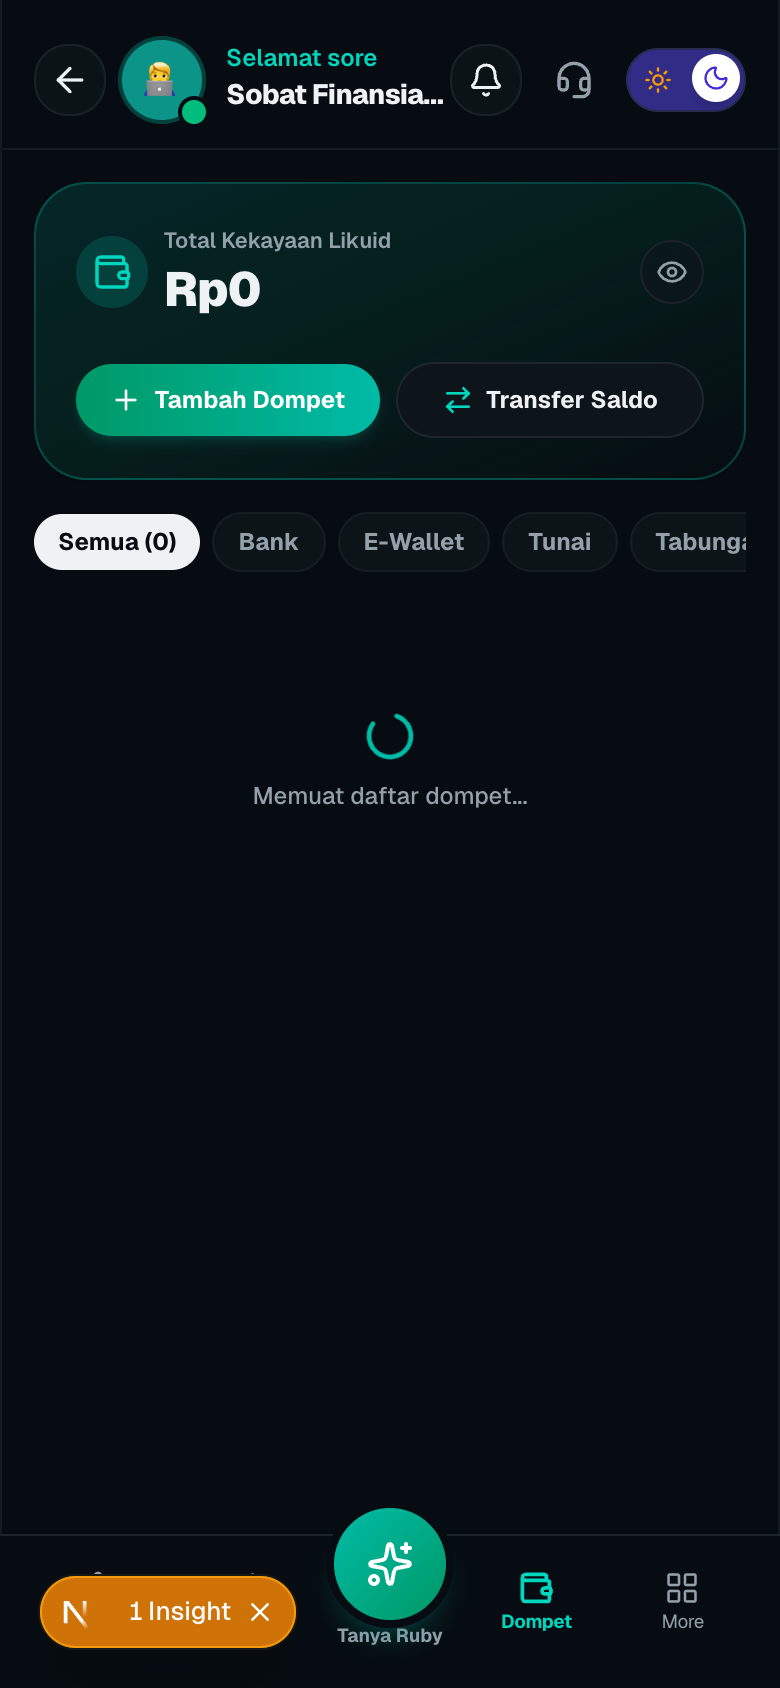
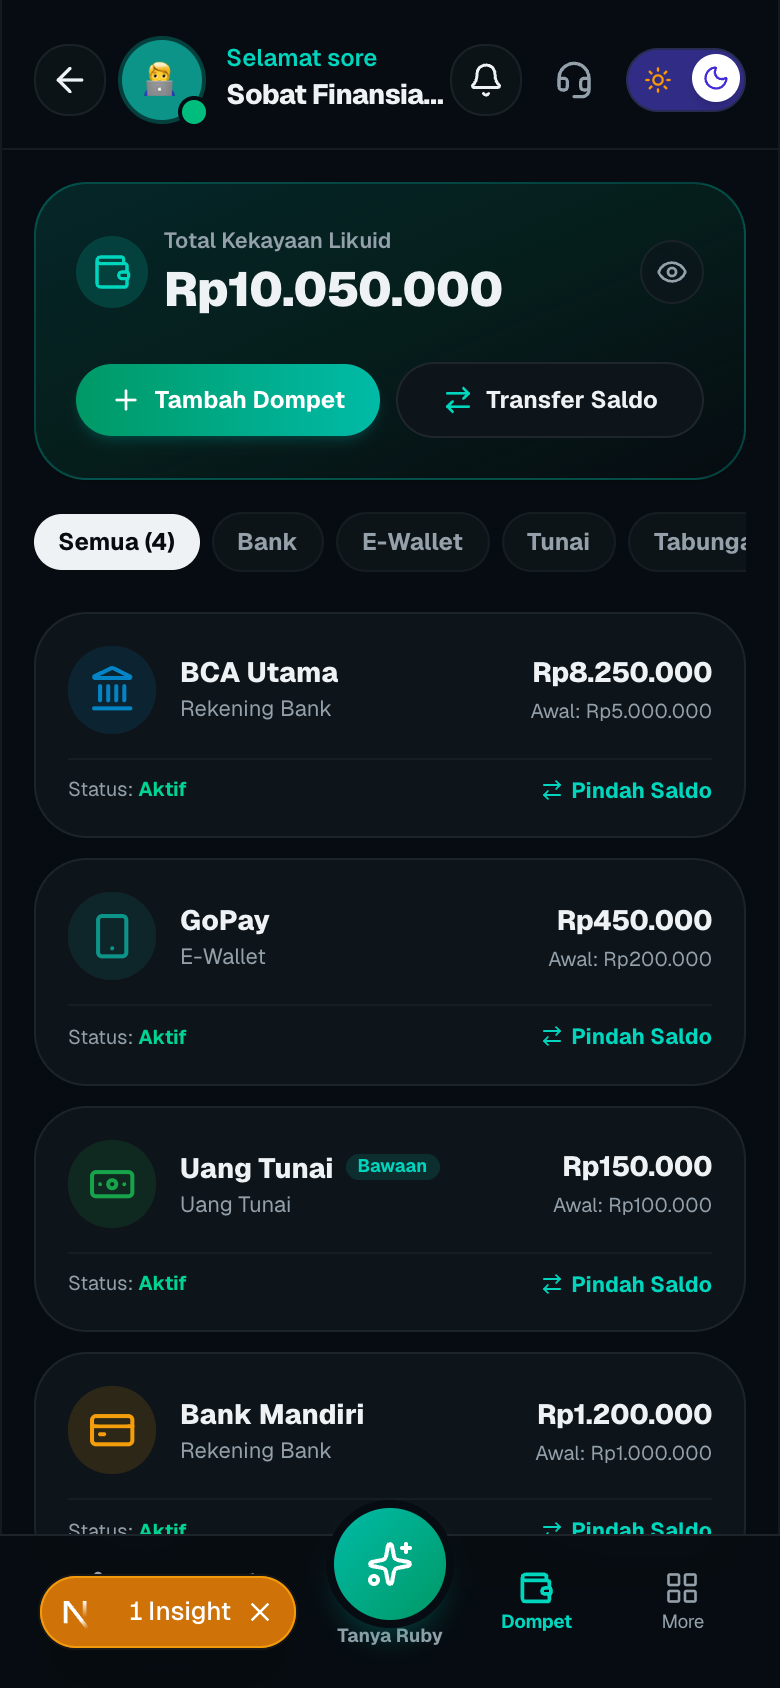
fix: Tambahkan unoptimized pada preview screenshot landing agar selalu segar tanpa cache

diff --git a/src/lib/data/wallets.ts b/src/lib/data/wallets.ts
@@ -65,6 +65,15 @@ export const SAMPLE_WALLETS: WalletBalance[] = [
 ];
 
 export async function getWallets(): Promise<WalletBalance[]> {
+  // Mode demo lokal: langsung kembalikan sampel agar tidak terjebak loading spinner saat screenshot
+  if (
+    typeof document !== "undefined" &&
+    document.cookie.includes("dompet_dev_mode=true") &&
+    process.env.NODE_ENV !== "production"
+  ) {
+    return SAMPLE_WALLETS;
+  }
+
   if (!isSupabaseConfigured()) {
     return USE_SAMPLE_DATA ? SAMPLE_WALLETS : [];
   }

diff --git a/src/components/landing/landing-features-grid.tsx b/src/components/landing/landing-features-grid.tsx
@@ -167,6 +167,7 @@ export function LandingFeaturesGrid() {
                     src={f.screenshot}
                     alt={f.title}
                     fill
+                    unoptimized
                     sizes="(max-width: 1024px) 100vw, 420px"
                     className="object-contain object-top"
                     priority={idx === 0}
